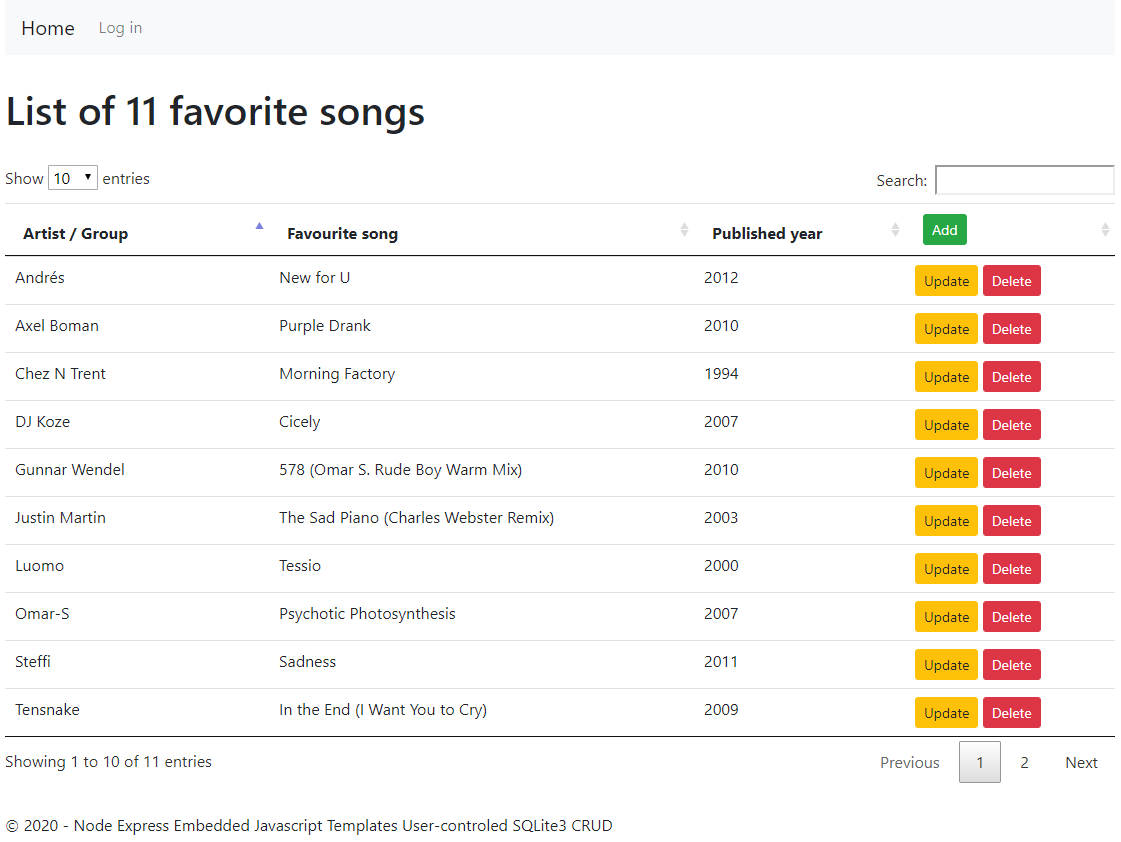
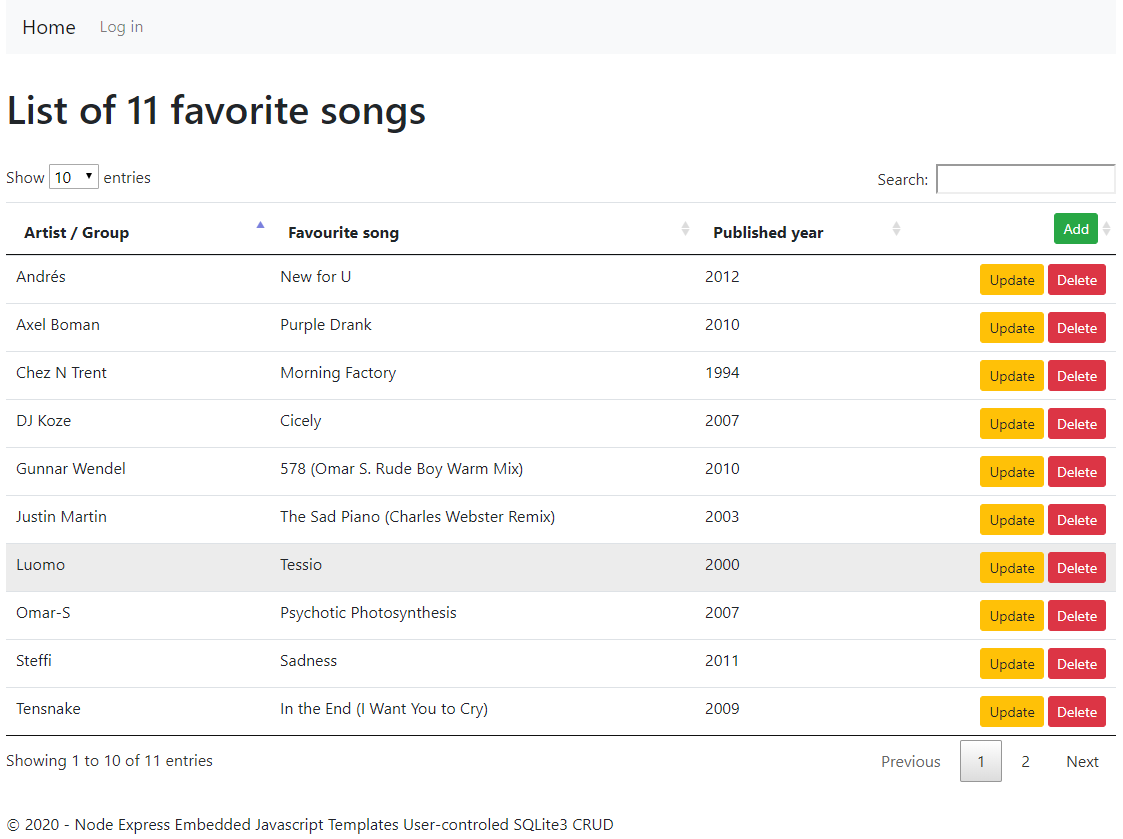
CSS, CRUD buttons to the right

diff --git a/public/css/master.css b/public/css/master.css
@@ -4,6 +4,9 @@
 footer {
     margin-top: 30px !important;
 }
+.d-print-none {
+    text-align: right;
+}
 .login-form {
     width: 300px;
     margin: 0 auto;
